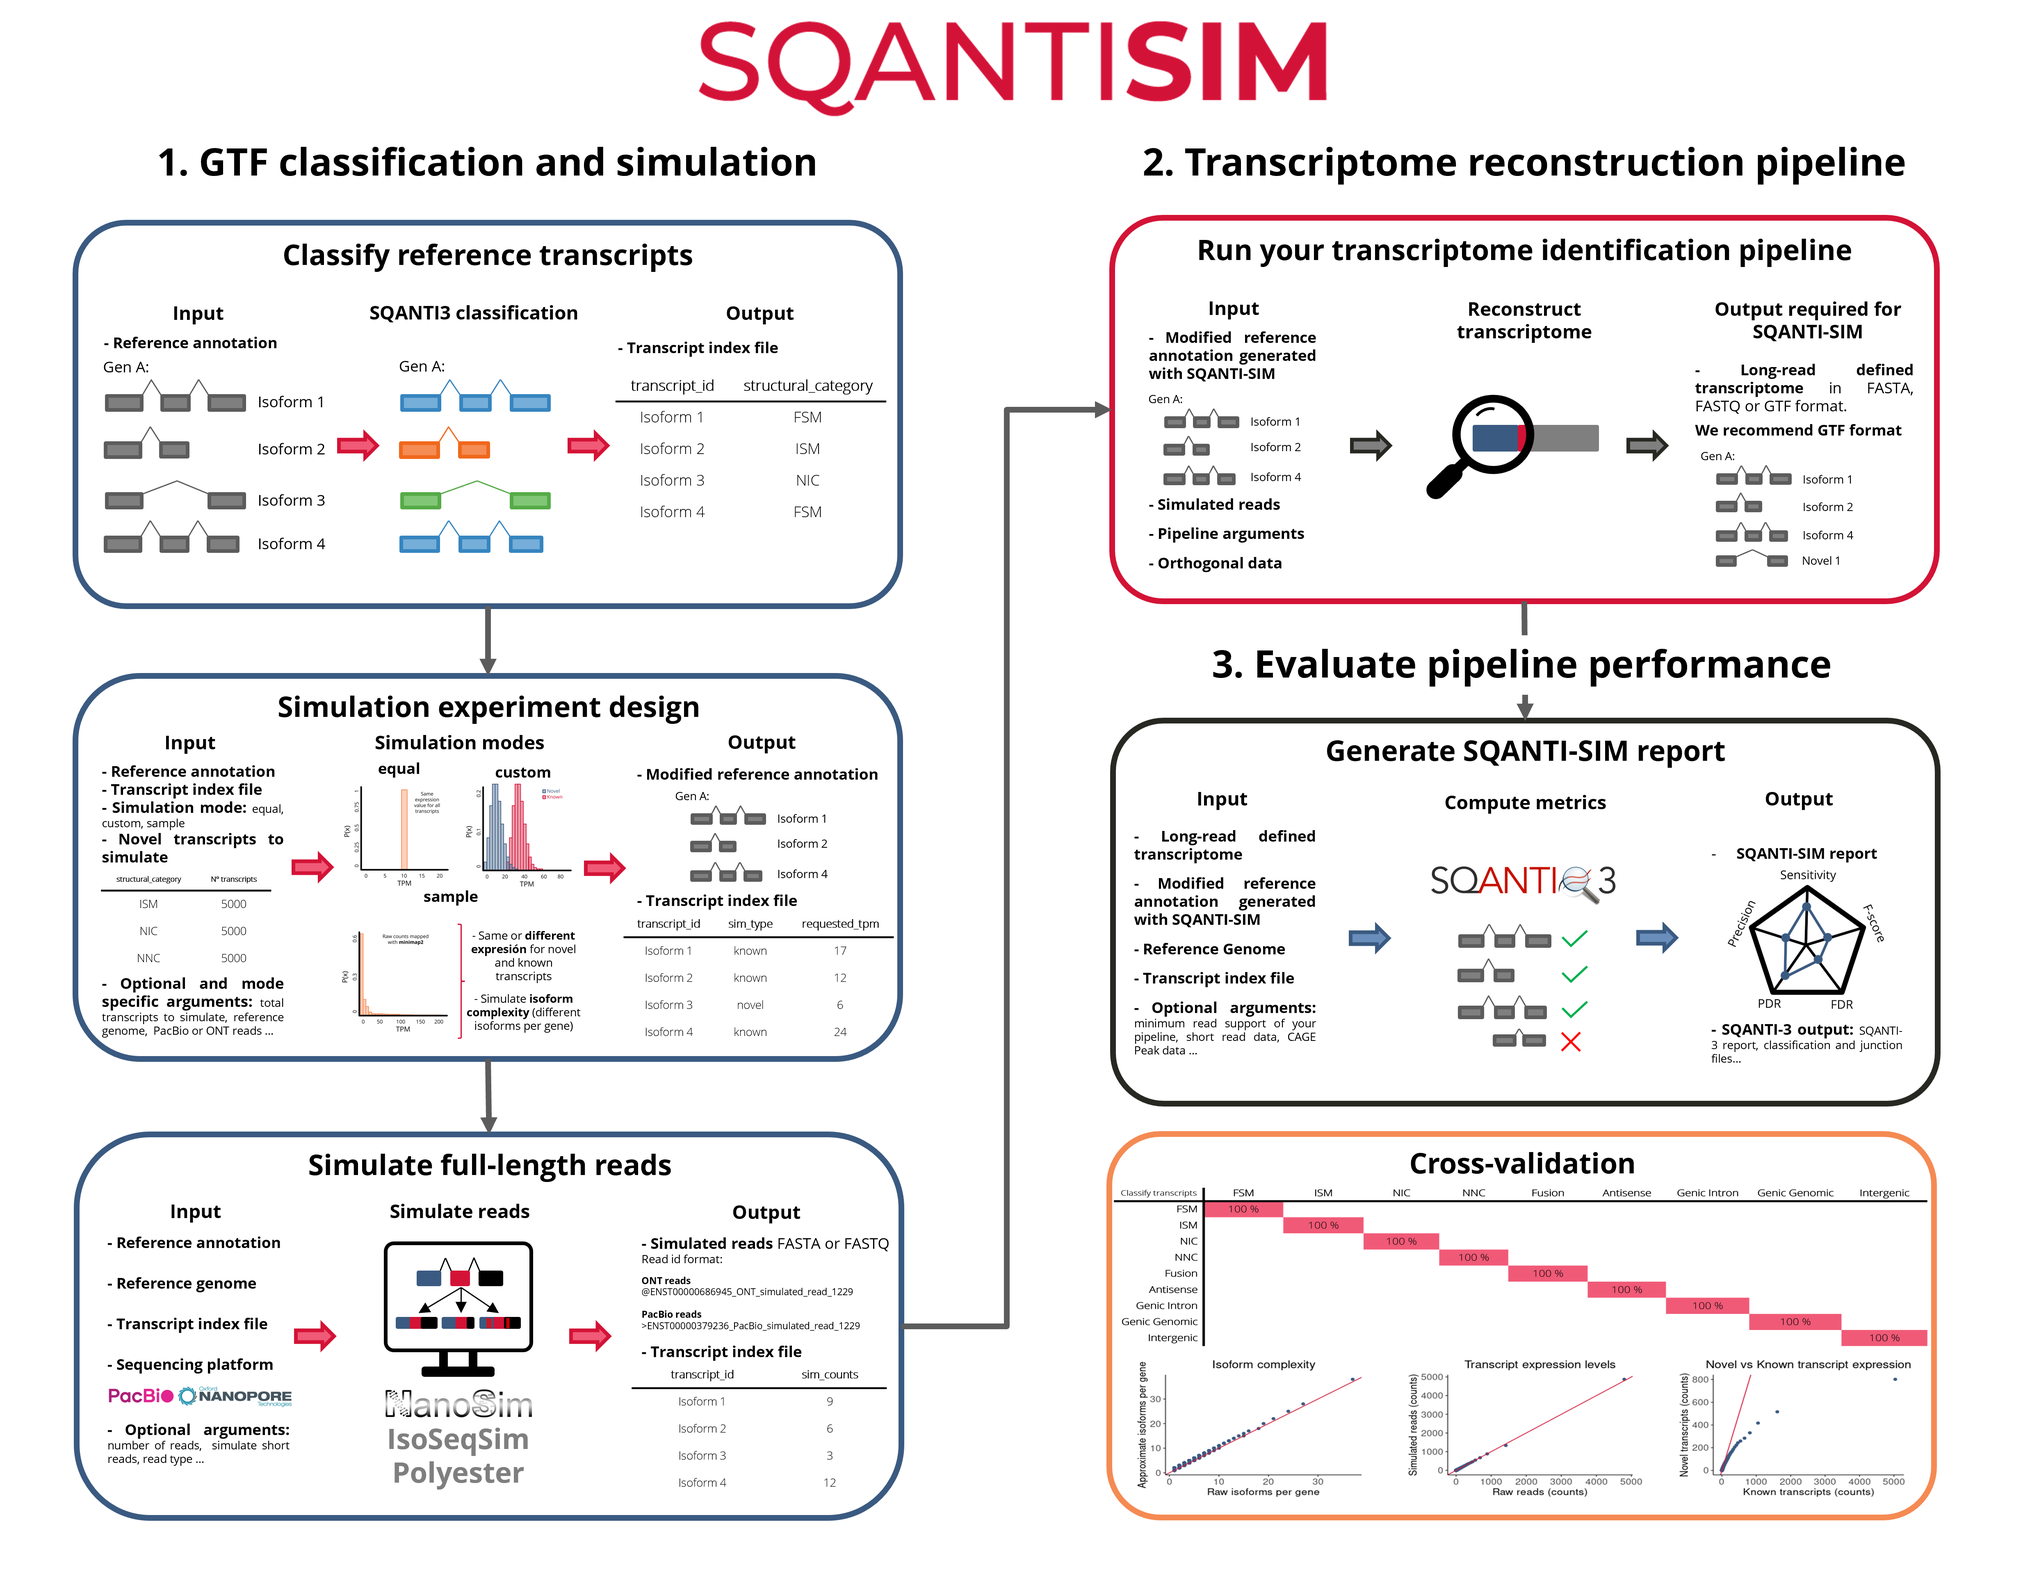
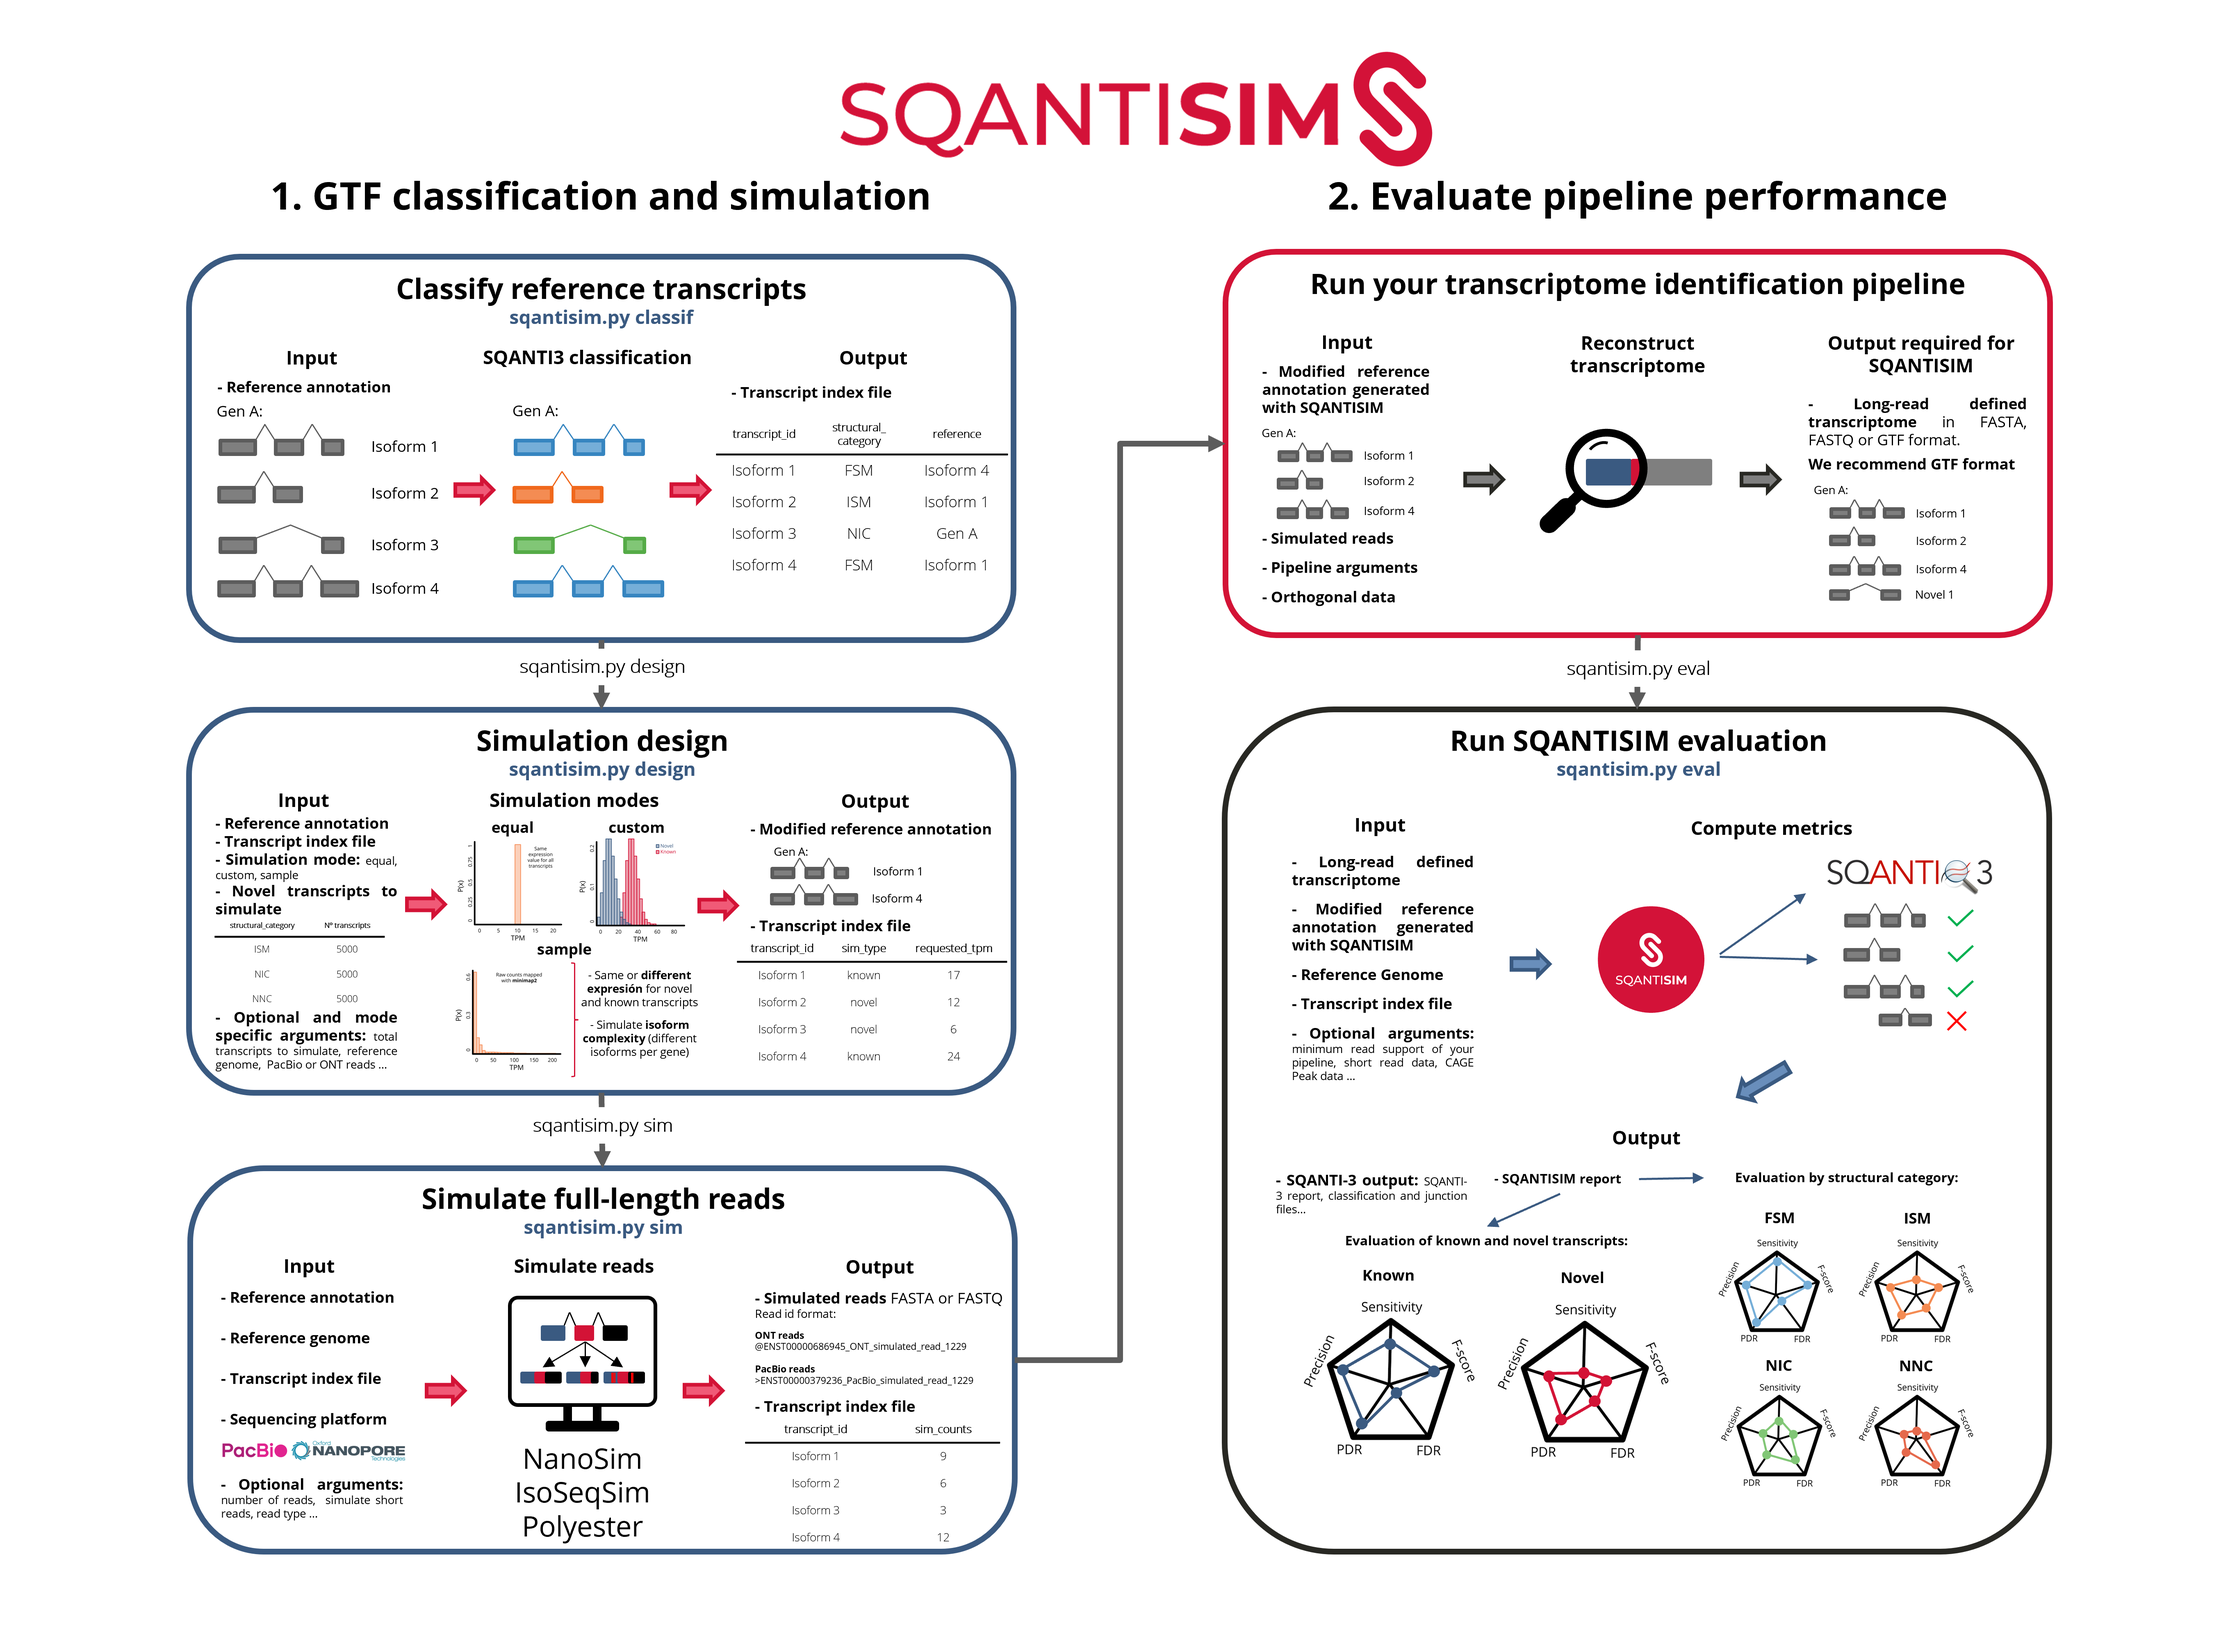
feat: new workflow image

Changed region(s): [[0.0312, 0.0, 0.9678, 0.9662], [0.9365, 0.4675, 0.9678, 0.4987], [0.9365, 0.3429, 0.9678, 0.374]]

diff --git a/README.md b/README.md
@@ -1,13 +1,13 @@
 <p align="center">
-  <img src="https://github.com/jorgemt98/SQANTISIM/blob/main/docs/sqantisim_logo.png" alt="" width="300">
+  <img src="https://github.com/jmestret/SQANTISIM/blob/main/docs/sqantisim_logo.png" alt="" width="300">
 </p>
 
 <p align="center">
-  <a href="https://github.com/jorgemt98/SQANTISIM/wiki/Requirements-and-installation">Installation</a>
+  <a href="https://github.com/jmestret/SQANTISIM/wiki/Requirements-and-installation">Installation</a>
   ·
-  <a href="https://github.com/jorgemt98/SQANTISIM/wiki">Documentation</a>
+  <a href="https://github.com/jmestret/SQANTISIM/wiki">Documentation</a>
   ·
-  <a href="https://github.com/jorgemt98/SQANTISIM/issues">Report bug</a>
+  <a href="https://github.com/jmestret/SQANTISIM/issues">Report bug</a>
   ·
   <a href="https://github.com/ConesaLab/SQANTI3">SQANTI3</a>
 </p>
@@ -18,9 +18,11 @@
 
 SQANTISIM aims to simulate novel and degraded transcripts in a controlled way using ground-truth present transcripts in the reference annotation that fit the description of the different SQANTI3 structural categories.
 
+![small_workflow](https://github.com/jmestret/SQANTISIM/blob/main/docs/small_workflow.png)
+
 ## Documentation
 
-Please refer to [Wiki](https://github.com/jorgemt98/SQANTISIM/wiki) for how to install and use SQANTISIM 
+Please refer to [Wiki](https://github.com/jmestret/SQANTISIM/wiki) for how to install and use SQANTISIM 
 
 ## Lastest updates
 
